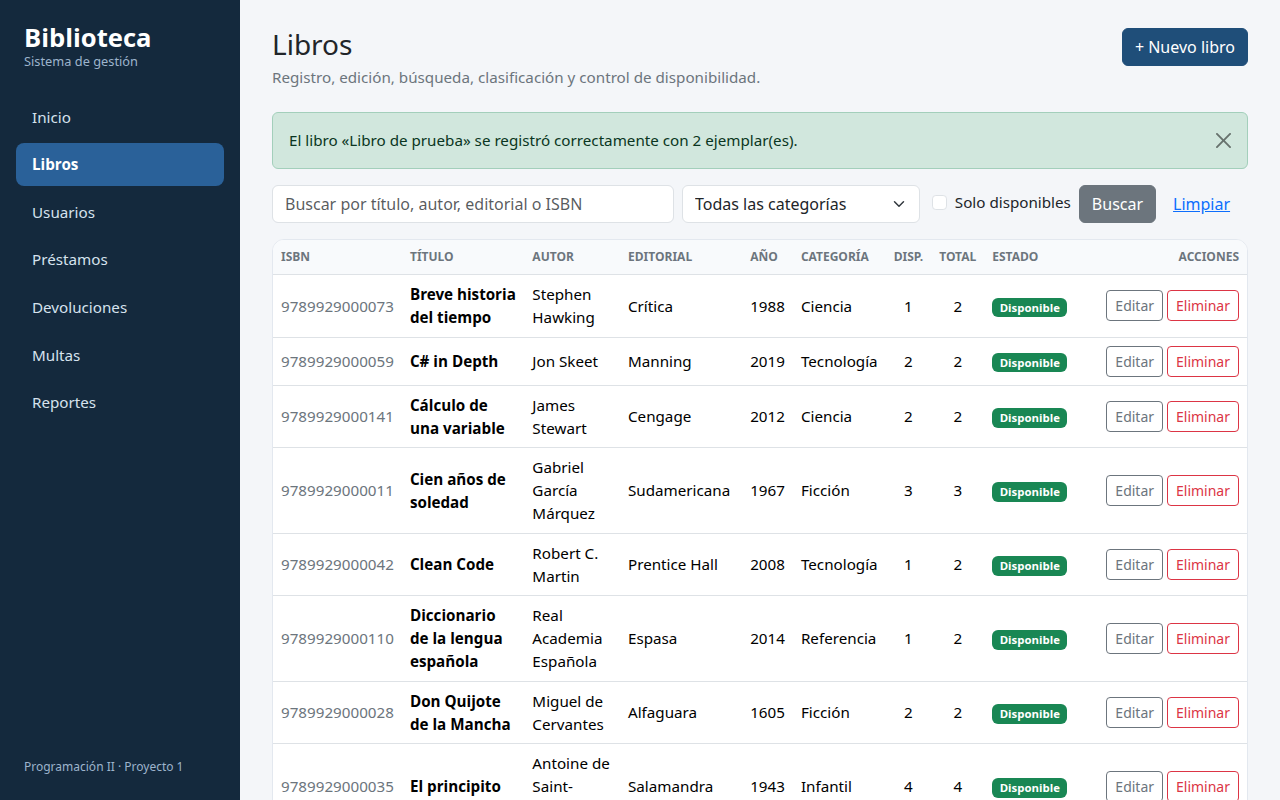
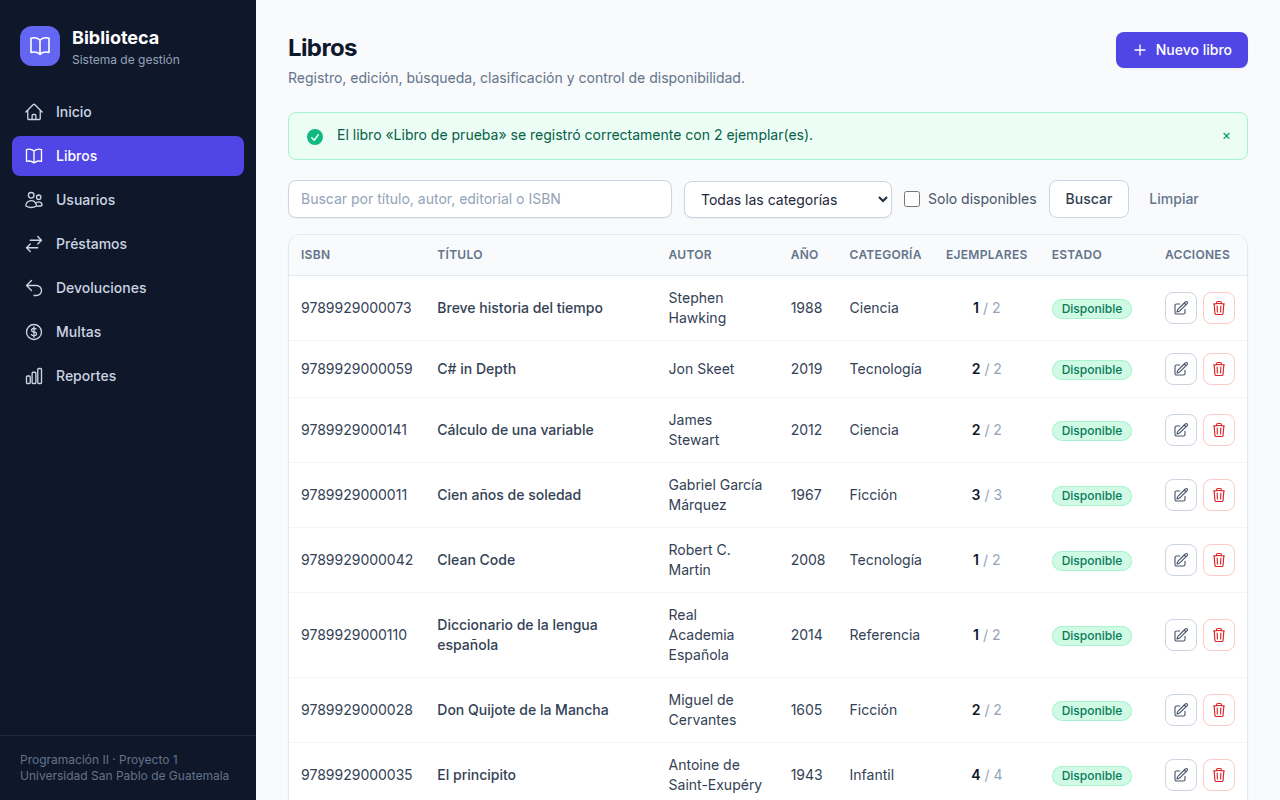
docs: actualiza la interfaz con las capturas del nuevo diseño y la vista móvil

diff --git a/docs/04-clases-diseno-y-trazabilidad.md b/docs/04-clases-diseno-y-trazabilidad.md
@@ -105,7 +105,7 @@ Solo se guardan los datos primarios: las propiedades calculadas (`LimitePrestamo
 
 # 8. Interfaz web
 
-La interfaz es una aplicación **ASP.NET Core MVC**: páginas Razor (`.cshtml`) con Bootstrap, que se abren desde el navegador. Las vistas no contienen lógica de negocio: los controladores llaman a los servicios y las vistas muestran el resultado. Cumple con lo mínimo solicitado:
+La interfaz es una aplicación **ASP.NET Core MVC**: páginas Razor (`.cshtml`) con Tailwind CSS (cargado por CDN), que se abren desde el navegador. Las vistas no contienen lógica de negocio: los controladores llaman a los servicios y las vistas muestran el resultado. Cumple con lo mínimo solicitado:
 
 | Requisito de interfaz | Cómo se cumple |
 |---|---|
@@ -113,11 +113,12 @@ La interfaz es una aplicación **ASP.NET Core MVC**: páginas Razor (`.cshtml`) 
 | Botones de navegación | El menú lateral, el botón **+ Nuevo** de cada módulo, los botones **Cancelar** y los accesos rápidos del inicio. |
 | Formularios de registro | Páginas de alta de libro, usuario y préstamo. |
 | Consulta de información | Tablas con búsqueda, filtros por categoría, tipo o estado, y resúmenes. |
-| Edición de información | Botón **Editar** en cada fila de libros y usuarios. |
-| Eliminación | Botón **Eliminar** en libros y usuarios, permitido solo sin historial. |
+| Edición de información | Botón de ícono **Editar** (lápiz) en cada fila de libros y usuarios. |
+| Eliminación | Botón de ícono **Eliminar** (papelera) en libros y usuarios, permitido solo sin historial. |
 | Mensajes de confirmación | Cuadro de confirmación del navegador antes de eliminar, renovar, devolver o cobrar; alerta verde de éxito después de cada operación. |
 | Mensajes de error | Alerta roja dentro del formulario con el motivo (validación o regla de negocio) y alerta roja tras una operación rechazada. |
 | Validación de datos | Campos obligatorios, formatos (ISBN, DPI, correo, teléfono), números, unicidad y reglas de negocio, siempre validados en el servidor. |
+| Interfaz clara y organizada | Diseño con menú lateral con íconos, tarjetas, tablas con insignias de estado, formularios en cuadrícula y alertas; se adapta a pantallas pequeñas (menú desplegable). |
 
 ### Inicio
 ![Panel de inicio](img/pantalla-inicio.png)
@@ -155,8 +156,17 @@ Los préstamos atrasados se resaltan en rojo y los devueltos en gris.
 
 ![Reporte de libros atrasados](img/pantalla-reporte-atrasados.png)
 
-### Mensaje de confirmación
-![Confirmación tras registrar un libro](img/libro-registrado.png)
+### Mensajes de confirmación y de error
+
+| Confirmación | Error |
+|---|---|
+| ![Confirmación tras registrar un libro](img/libro-registrado.png) | ![Error tras un intento de eliminar un libro con historial](img/mensaje-error.png) |
+
+### Diseño adaptable (móvil)
+
+| Listado | Menú desplegable |
+|---|---|
+| ![Listado en móvil](img/movil-libros.png) | ![Menú en móvil](img/movil-menu.png) |
 
 ---
 
@@ -247,7 +257,7 @@ sistema-biblioteca/
 ├── Controllers/               controladores MVC
 ├── Models/                    modelos de vista (ViewModels)
 ├── Views/                     vistas Razor (.cshtml)
-├── wwwroot/                   estilos y Bootstrap
+├── wwwroot/                   archivos estáticos (los estilos vienen de Tailwind por CDN)
 ├── Data/                      archivos JSON con los datos de prueba
 ├── docs/                      documento de análisis, diagramas, imágenes y presentación
 ├── src/
